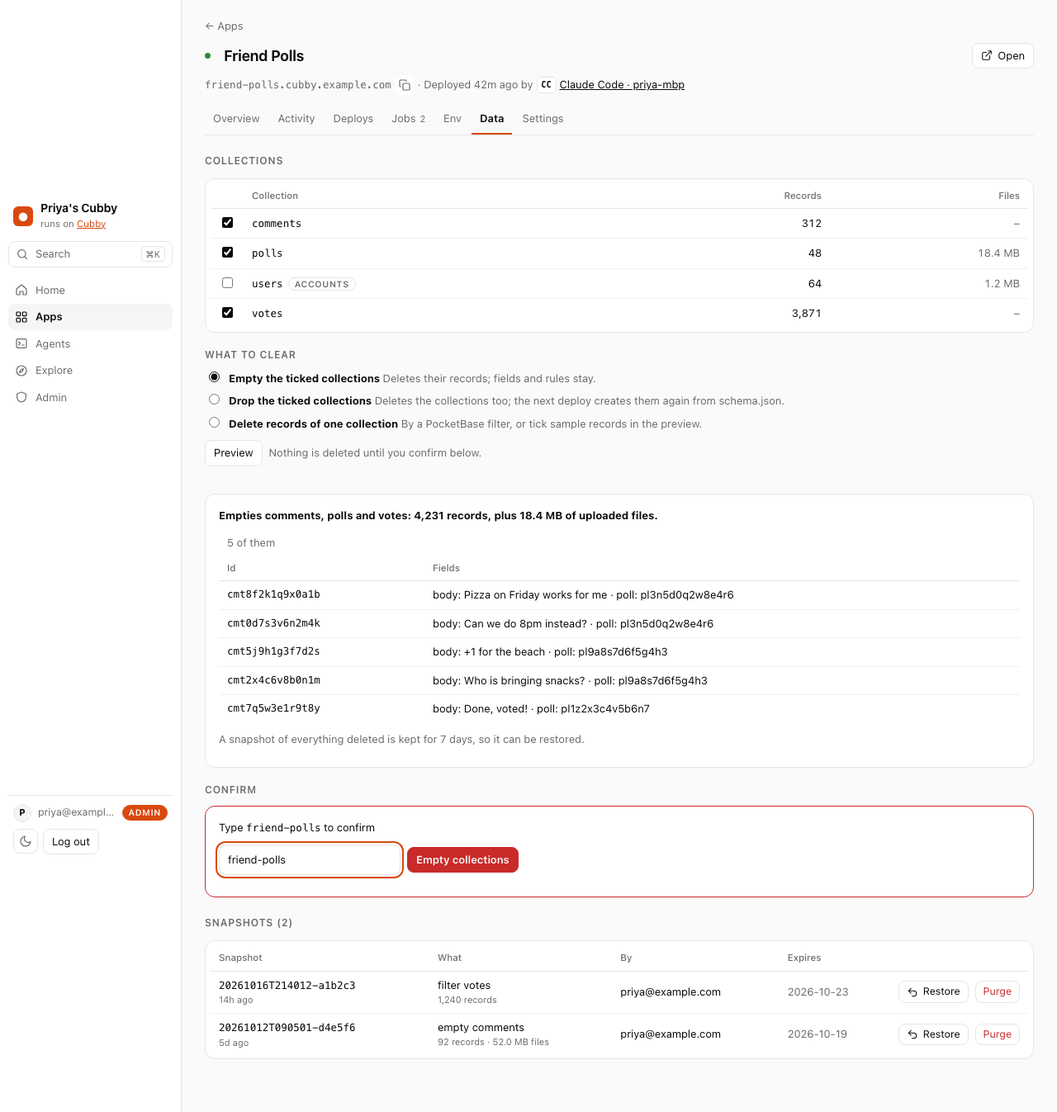
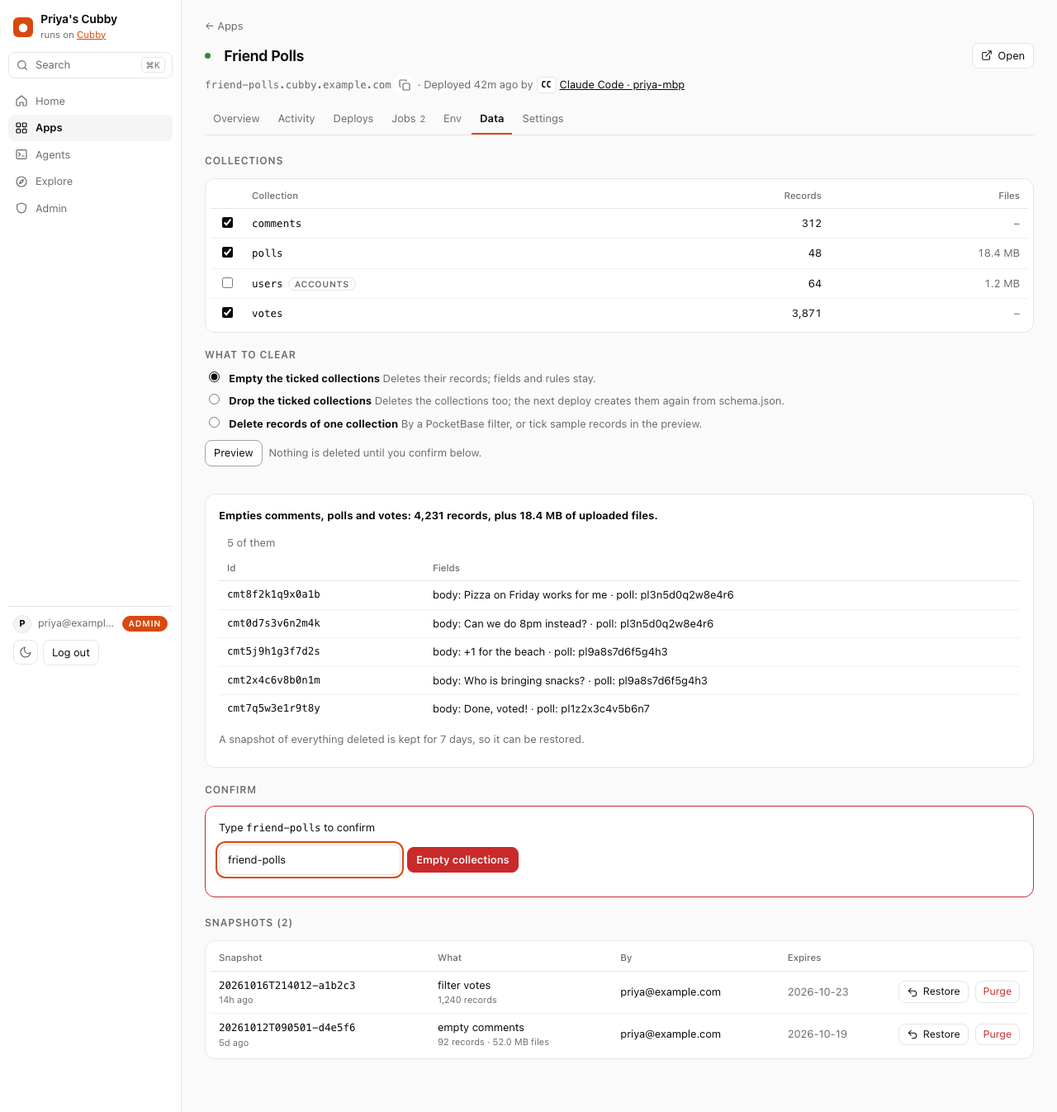
fix(dashboard): structured activity meta, one metrics request, and the Data tab screenshot (#50)
* feat(activity): structured meta on activity entries

cubby_activity gains an optional JSON meta field. Deploys record
{ deploy, files }, rollbacks { deploy }, job runs { job, status } and
job pause/resume { job }; the activity APIs return it. The dashboard
feed reads meta first and falls back to parsing the summary for rows
written before this change.

* feat(metrics): daily series in /api/metrics; dashboard uses one list request

Each GET /api/metrics row now has days: [{ start, views, visitors }]
(appMetricsRow in server/src/metrics.js). Home and the Apps list draw
every app's 7-day views and sparkline from /api/metrics?range=7d instead
of one /api/projects/:slug/metrics request per app. Jobs are still read
per app (only for apps with jobs): they aren't in a list response.

* docs: retake the app Data tab screenshot from the top of the page

Typing the confirmation scrolled the page before the full-page capture,
so the sticky sidebar was drawn at the scroll offset. The sidebar is
positioned correctly at runtime (pinned to the viewport top); the capture
now scrolls back to the top first.

* refactor(metrics): drop an unreachable fallback in appMetricsRow

Reports always have days, so the branch was never taken.

---------

diff --git a/server/src/index.js b/server/src/index.js
@@ -13,7 +13,7 @@ import { scheduleBackups, createBackupRunner, runMaintenance } from './backups.j
 import { scanStorage, createTtlCache, listBackups, checkBackupDelete, planRetention, deleteBackup } from './storage.js';
 import { listJobs, runNow, jobRuns, setPaused, allJobs, scheduleJobs, recoverRuns, deployJobs } from './jobs.js';
 import { listEnv, setEnv, unsetEnv } from './secrets.js';
-import { createMetrics, pocketbaseStore, countsAsView, isPerson, parseRange, metricsClock, appAccounts, summarizeMetrics } from './metrics.js';
+import { createMetrics, pocketbaseStore, countsAsView, isPerson, parseRange, metricsClock, appAccounts, summarizeMetrics, appMetricsRow } from './metrics.js';
 import { buildCliTarball, cliTarball, skillMarkdown } from './cli-dist.js';
 import { startDevice, deviceInfo, approveDevice, pollDevice } from './device.js';
 import * as logic from './logic.js';
@@ -149,21 +149,21 @@ const routes = [
     const deploy = await createDeploy(project, body, url.searchParams.get('message') ?? '', logic.deployClient(req.headers['x-cubby-client']));
     const patch = logic.deployPatch(url.searchParams);
     if (Object.keys(patch).length) await admin.collection('cubby_projects').update(project.id, patch);
-    await recordActivity(user, { action: 'deploy', app: slug, summary: `Deployed ${deploy.id} (${deploy.files} files)` });
+    await recordActivity(user, { action: 'deploy', app: slug, summary: `Deployed ${deploy.id} (${deploy.files} files)`, meta: { deploy: deploy.id, files: deploy.files } });
     return { ...deploy, url: appUrl(slug) };
   }],
   ['POST', '/api/projects/:slug/rollback', 'user', async (req, user, { slug }) => {
     const project = await ownedProject(user, slug);
     const { deploy } = await readJson(req);
     await rollback(project, deploy);
-    await recordActivity(user, { action: 'rollback', app: slug, summary: `Rolled back to ${deploy}` });
+    await recordActivity(user, { action: 'rollback', app: slug, summary: `Rolled back to ${deploy}`, meta: { deploy } });
     return { ok: true, current_deploy: deploy, url: appUrl(slug) };
   }],
 
   ['GET', '/api/projects/:slug/jobs', 'user', async (req, user, { slug }) => listJobs(await ownedProject(user, slug))],
   ['POST', '/api/projects/:slug/jobs/:name/run', 'user', async (req, user, { slug, name }) => {
     const run = await runNow(await ownedProject(user, slug), name);
-    await recordActivity(user, { action: 'job.run', app: slug, summary: `Ran job "${name}" now (${run.status})` });
+    await recordActivity(user, { action: 'job.run', app: slug, summary: `Ran job "${name}" now (${run.status})`, meta: { job: name, status: run.status } });
     return run;
   }],
   ['GET', '/api/projects/:slug/jobs/:name/runs', 'user', async (req, user, { slug, name }, url) => (
@@ -174,7 +174,7 @@ const routes = [
     const { paused } = await readJson(req);
     if (typeof paused !== 'boolean') throw new HttpError(400, 'Body must be { "paused": true | false }');
     const result = await setPaused(project, name, paused);
-    await recordActivity(user, { action: paused ? 'job.pause' : 'job.resume', app: slug, summary: `${paused ? 'Paused' : 'Resumed'} job "${name}"` });
+    await recordActivity(user, { action: paused ? 'job.pause' : 'job.resume', app: slug, summary: `${paused ? 'Paused' : 'Resumed'} job "${name}"`, meta: { job: name } });
     return result;
   }],
 
@@ -208,10 +208,7 @@ const routes = [
     const hours = parseRange(range);
     const list = await admin.collection('cubby_projects').getFullList({ filter: admin.filter('owner = {:u}', { u: user.id }), sort: 'slug' });
     const report = await metrics.report(list.map((p) => p.id), hours);
-    return list.map((p) => {
-      const { from, to, views, visitors, active_now, peak_active, api_requests, api_errors, api_error_rate } = report[p.id];
-      return { app: p.slug, name: p.name, range, from, to, views, visitors, active_now, peak_active, api_requests, api_errors, api_error_rate };
-    });
+    return list.map((p) => appMetricsRow(p, range, report[p.id]));
   }],
 
   // Data: what's in an app's collections, and clearing it (after a snapshot). Owners for their apps; admins any app.

diff --git a/server/public/js/views/home.js b/server/public/js/views/home.js
@@ -3,7 +3,7 @@
 // connect steps instead. Only the signed-in user's own apps are shown here; friends' apps are on Explore.
 import { h, ago, fmtCount, setupPrompt } from '../helpers.js';
 import { monogram, needsAttention, nextPrompts } from '../feed.js';
-import { sumSeries } from '../charts.js';
+import { weekViews } from '../app-view.js';
 import { appPath } from '../routes.js';
 import { state, api, rerender, SERVER } from '../session.js';
 import { agentBadge, copy, copyChip, icon, pageHeader, toast } from '../ui.js';
@@ -38,11 +38,13 @@ function agentsCard(agents) {
     connect);
 }
 
-// Fills the summary cards once the metrics arrive (the feed draws first).
+// Fills the summary cards once the metrics arrive (the feed draws first). Two list requests cover every app: the
+// last 24 hours (active now, and API errors worth a look) and 7 days by day (the views card). Jobs aren't in a list
+// response, so they're asked per app (only apps that have jobs).
 async function loadSummary(apps, activeCard, viewsCard, attention) {
   const [now, weekly, jobs] = await Promise.all([
     api('GET', '/api/metrics?range=24h'),
-    Promise.all(apps.map((a) => api('GET', `/api/projects/${a.slug}/metrics?range=7d`).catch(() => null))),
+    api('GET', '/api/metrics?range=7d'),
     Promise.all(apps.filter((a) => a.jobs).map((a) => api('GET', `/api/projects/${a.slug}/jobs`).then((list) => list.map((j) => ({ ...j, app: a.slug })), () => []))),
   ]);
   const name = (slug) => apps.find((a) => a.slug === slug)?.name ?? slug;
@@ -52,10 +54,9 @@ async function loadSummary(apps, activeCard, viewsCard, attention) {
       h('span', { class: `dot${m.active_now ? ' live' : ''}`, 'aria-hidden': 'true' }), h('a', { href: appPath(m.app), class: 'grow' }, name(m.app)),
       h('span', { class: 'num' }, m.active_now ? fmtCount(m.active_now) : '–')))));
 
-  const days = sumSeries(weekly.filter(Boolean).map((r) => r.days), 'views').slice(-7);
-  const views = days.reduce((n, d) => n + d.value, 0);
-  viewsCard.replaceChildren(h('div', { class: 'side-card-h' }, h('h3', {}, 'Views · 7 days'), h('b', { class: 'big' }, fmtCount(views))),
-    sparkSvg(days.map((d) => d.value), { w: 240, h: 40, label: `Views per day, last 7 days: ${days.map((d) => d.value).join(', ')}` }));
+  const week = weekViews(weekly);
+  viewsCard.replaceChildren(h('div', { class: 'side-card-h' }, h('h3', {}, 'Views · 7 days'), h('b', { class: 'big' }, fmtCount(week.total))),
+    sparkSvg(week.values, { w: 240, h: 40, label: `Views per day, last 7 days: ${week.values.join(', ')}` }));
 
   const items = needsAttention({ apps, jobs: jobs.flat(), metrics: now });
   attention.replaceChildren(...items.map((i) => h('div', { class: 'attention', role: 'group', 'aria-label': `${name(i.app)}: ${i.text}` },

diff --git a/server/public/js/views/apps.js b/server/public/js/views/apps.js
@@ -4,7 +4,7 @@
 import { h, ago, fmtBytes, fmtCount, jobState } from '../helpers.js';
 import { emptyPrompt, lastDeployers, monogram } from '../feed.js';
 import { chartBuckets, deployMarkers, timeTicks } from '../charts.js';
-import { RANGES, chartSummary, kpis, rangeFrom, topPathRows } from '../app-view.js';
+import { RANGES, chartSummary, kpis, rangeFrom, topPathRows, weekViews } from '../app-view.js';
 import { APP_TABS, appPath } from '../routes.js';
 import { api, rerender } from '../session.js';
 import { navigate } from '../router.js';
@@ -41,16 +41,16 @@ export async function renderApps(el) {
         h('td', { class: 'muted hide-sm', 'data-col': 'deploy' }, a.current_deploy ? [`Deployed ${ago(a.last_deployed)}`, ...byLine(deployers[a.slug])] : 'Not deployed yet'),
         h('td', { class: 'r hide-sm' }, a.current_deploy ? h('a', { href: a.url, target: '_blank', rel: 'noopener', 'aria-label': `Open ${a.name}` }, 'Open ↗') : null));
     })))));
-  // Metrics fill in once they arrive.
-  await Promise.all(apps.map(async (a) => {
+  // Metrics fill in once they arrive: one request for every app's numbers and daily views.
+  const metrics = await api('GET', '/api/metrics?range=7d').catch(() => []);
+  for (const a of apps) {
     const c = cells.get(a.slug);
-    try {
-      const m = await api('GET', `/api/projects/${a.slug}/metrics?range=7d`);
-      c.active.replaceChildren(m.active_now ? h('span', { class: 'live-n' }, h('span', { class: 'dot live', 'aria-hidden': 'true' }), fmtCount(m.active_now)) : '–');
-      const days = m.days.slice(-7).map((d) => d.views);
-      c.views.replaceChildren(h('span', { class: 'num' }, fmtCount(m.views)), sparkSvg(days, { w: 96, h: 22, label: `${a.name} views per day: ${days.join(', ')}` }));
-    } catch { c.active.textContent = '–'; c.views.textContent = '–'; }
-  }));
+    const m = metrics.find((r) => r.app === a.slug);
+    if (!m) { c.active.textContent = '–'; c.views.textContent = '–'; continue; }
+    c.active.replaceChildren(m.active_now ? h('span', { class: 'live-n' }, h('span', { class: 'dot live', 'aria-hidden': 'true' }), fmtCount(m.active_now)) : '–');
+    const { values } = weekViews([m]);
+    c.views.replaceChildren(h('span', { class: 'num' }, fmtCount(m.views)), sparkSvg(values, { w: 96, h: 22, label: `${a.name} views per day: ${values.join(', ')}` }));
+  }
 }
 
 // ---------- /apps/:slug ----------

diff --git a/tests/integration/activity.test.js b/tests/integration/activity.test.js
@@ -32,6 +32,7 @@ describe('activity log', () => {
     assert.equal(row.via, 'agent');
     assert.equal(row.agent.name, 'Claude Code · laptop');
     assert.match(row.summary, new RegExp(`${d.data.id}.*2 files`));
+    assert.deepEqual(row.meta, { deploy: d.data.id, files: 2 }, 'structured detail, so the dashboard need not parse the summary');
   });
   test('dashboard actions (the manual token) are attributed to the user via the dashboard; newest first', async () => {
     assert.equal((await alice('POST', '/api/projects', { body: { slug: 'act-dash' } })).status, 200);
@@ -51,6 +52,7 @@ describe('activity log', () => {
     assert.deepEqual(env.map((x) => x.action), ['env.unset', 'env.set']);
     assert.ok(env.every((x) => x.summary.includes('STRIPE_KEY')));
     assert.ok(!r.text.includes(secret), 'the value never reaches the log');
+    assert.ok(env.every((x) => x.meta === null), 'nor any structured detail');
     assert.ok(!r.text.includes('sk-live'));
   });
   test('rollback, schema push (added/kept) and schema drop are recorded', async () => {
@@ -63,6 +65,8 @@ describe('activity log', () => {
     assert.equal((await alice('DELETE', '/api/projects/act-one/schema/notes.body')).status, 200);
     const rows = (await alice('GET', '/api/activity?app=act-one')).data;
     assert.match(rows.find((r) => r.action === 'rollback').summary, new RegExp(first));
+    assert.deepEqual(rows.find((r) => r.action === 'rollback').meta, { deploy: first });
+    assert.equal(rows.find((r) => r.action === 'schema.drop').meta, null, 'actions without structured detail have none');
     const pushes = rows.filter((r) => r.action === 'schema.push');
     assert.match(pushes[1].summary, /created notes/);
     assert.match(pushes[0].summary, /kept notes\.body/);
@@ -81,6 +85,7 @@ describe('activity log', () => {
     const rows = (await alice('GET', '/api/activity?app=act-one')).data.filter((r) => r.action.startsWith('job.'));
     assert.deepEqual(rows.map((r) => r.action), ['job.resume', 'job.pause', 'job.run']);
     assert.match(rows[2].summary, /tick.*ok/);
+    assert.deepEqual(rows.map((r) => r.meta), [{ job: 'tick' }, { job: 'tick' }, { job: 'tick', status: 'ok' }]);
   });
   test('approving an agent login is recorded under that agent, without an app', async () => {
     await deviceLogin(alice, { tool: 'Codex', machine: 'desk' });

diff --git a/tests/unit/activity.test.js b/tests/unit/activity.test.js
@@ -15,12 +15,16 @@ describe('activity rows', () => {
   test('a dashboard action has no agent; an agent action carries its key id and name', () => {
     const now = new Date('2026-10-17T09:30:00Z');
     assert.deepEqual(logic.activityRow(alice, { action: 'app.create', app: 'todo', summary: 'Created app "todo"' }, now), {
-      user: 'u1', agent: '', agent_name: '', app: 'todo', action: 'app.create', summary: 'Created app "todo"', at: '2026-10-17T09:30:00.000Z',
+      user: 'u1', agent: '', agent_name: '', app: 'todo', action: 'app.create', summary: 'Created app "todo"', meta: null, at: '2026-10-17T09:30:00.000Z',
     });
     const row = logic.activityRow(agent, { action: 'agent.login' }, now);
     assert.equal(row.agent, 'k9');
     assert.equal(row.agent_name, 'Claude Code · laptop');
     assert.equal(row.app, '', 'actions without an app');
+  });
+  test('structured meta is stored as given; rows without it store null', () => {
+    assert.deepEqual(logic.activityRow(alice, { action: 'deploy', meta: { deploy: 'd1', files: 3 } }).meta, { deploy: 'd1', files: 3 });
+    assert.equal(logic.activityRow(alice, { action: 'deploy', meta: {} }).meta, null, 'empty meta is not stored');
   });
   test('summaries are capped so a row stays small', () => {
     assert.equal(logic.activityRow(alice, { action: 'deploy', summary: 'x'.repeat(1000) }).summary.length, 300);
@@ -28,8 +32,9 @@ describe('activity rows', () => {
   test('the view says how the action was made and who made it', () => {
     const base = { id: 'r1', at: 't', app: 'todo', action: 'deploy', summary: 's', expand: { user: { email: 'a@x.dev' } } };
     assert.deepEqual(logic.activityView({ ...base, agent: 'k9', agent_name: 'Codex · box' }), {
-      id: 'r1', at: 't', user: 'a@x.dev', via: 'agent', agent: { id: 'k9', name: 'Codex · box' }, app: 'todo', action: 'deploy', summary: 's',
+      id: 'r1', at: 't', user: 'a@x.dev', via: 'agent', agent: { id: 'k9', name: 'Codex · box' }, app: 'todo', action: 'deploy', summary: 's', meta: null,
     });
+    assert.deepEqual(logic.activityView({ ...base, meta: { deploy: 'd1', files: 2 } }).meta, { deploy: 'd1', files: 2 });
     const dash = logic.activityView({ ...base, agent: '', agent_name: '', app: '', expand: undefined });
     assert.equal(dash.via, 'dashboard');
     assert.equal(dash.agent, null);

diff --git a/server/public/js/feed.js b/server/public/js/feed.js
@@ -64,19 +64,33 @@ export function feedEntry(row, { apps = [], agents = [] } = {}) {
   const entry = { id: row.id, at: row.at, actor: actorOf(row, agents), app: appOf(row.app, apps), text: row.summary, kind: 'other', rollback: false };
   if (row.action === 'deploy') {
     entry.kind = 'deploy';
-    const m = row.summary.match(/^Deployed (\S+)(?: \((\d+) files?\))?/);
-    entry.deployId = m?.[1] ?? null;
+    const { deploy, files } = deployDetails(row);
+    entry.deployId = deploy;
     entry.verb = 'deployed';
-    entry.detail = m?.[2] ? `${m[2]} file${m[2] === '1' ? '' : 's'}` : '';
+    entry.detail = files != null ? `${files} file${files === 1 ? '' : 's'}` : '';
     const app = apps.find((a) => a.slug === row.app);
     entry.rollback = Boolean(app && entry.deployId && app.current_deploy === entry.deployId);
   } else if (row.action === 'rollback') {
     Object.assign(entry, { kind: 'rollback', verb: 'rolled back', detail: 'to an earlier deploy' });
   } else if (row.action === 'job.run') {
-    const m = row.summary.match(/^Ran job "([^"]+)" now \((\w+)\)$/);
-    if (m && (m[2] === 'error' || m[2] === 'timeout')) Object.assign(entry, { kind: 'failed', job: m[1], status: m[2] });
+    const { job, status } = jobRunDetails(row);
+    if (job && (status === 'error' || status === 'timeout')) Object.assign(entry, { kind: 'failed', job, status });
   }
   return entry;
+}
+
+// Rows carry structured `meta` since the activity log gained it; older rows only have the summary text
+// ("Deployed <id> (N files)", `Ran job "x" now (status)`), which is parsed as a fallback.
+function deployDetails({ meta, summary }) {
+  if (meta?.deploy) return { deploy: meta.deploy, files: Number.isInteger(meta.files) ? meta.files : null };
+  const m = String(summary ?? '').match(/^Deployed (\S+)(?: \((\d+) files?\))?/);
+  return { deploy: m?.[1] ?? null, files: m?.[2] ? Number(m[2]) : null };
+}
+
+function jobRunDetails({ meta, summary }) {
+  if (meta?.job) return { job: meta.job, status: meta.status ?? null };
+  const m = String(summary ?? '').match(/^Ran job "([^"]+)" now \((\w+)\)$/);
+  return { job: m?.[1] ?? null, status: m?.[2] ?? null };
 }
 
 /** Feed entries for rows (newest first). Only an app's newest deploy in the feed can offer Roll back. */

diff --git a/tests/unit/metrics.test.js b/tests/unit/metrics.test.js
@@ -4,7 +4,7 @@ import { createHash } from 'node:crypto';
 import { mkdtempSync, writeFileSync, rmSync } from 'node:fs';
 import { tmpdir } from 'node:os';
 import { join } from 'node:path';
-import { createMetrics, countsAsView, parseRange, pocketbaseStore, visitorId, metricsClock, appAccounts, isPerson, rollupMetrics, summarizeMetrics } from '../../server/src/metrics.js';
+import { createMetrics, countsAsView, parseRange, pocketbaseStore, visitorId, metricsClock, appAccounts, isPerson, rollupMetrics, summarizeMetrics, appMetricsRow } from '../../server/src/metrics.js';
 
 // In-memory stand-in for the cubby_metrics collection.
 function memoryStore() {
@@ -623,5 +623,25 @@ describe('admin totals', () => {
       { start: 'D2', views: 3, visitors: 1, api_requests: 2, api_errors: 0, peak_active: 4 },
     ]);
     assert.deepEqual(s.hours, [{ start: 'H1', views: 8, peak_active: 2, api_requests: 4, api_errors: 2 }]);
+  });
+});
+
+// GET /api/metrics: one row per app, with a compact daily series so the dashboard needs no per-app request.
+describe('the per-app list row', () => {
+  test('has the totals and each day as { start, views, visitors } only, without hours, paths or API counts', () => {
+    const report = {
+      from: 'F', to: 'T', views: 7, visitors: 3, active_now: 1, peak_active: 2, api_requests: 10, api_errors: 1, api_error_rate: 0.1,
+      top_paths: [{ path: '/', views: 7 }], hours: [{ start: 'H1', views: 7 }],
+      days: [{ start: 'D1', views: 3, visitors: 1, api_requests: 4, api_errors: 0, peak_active: 1 }, { start: 'D2', views: 4, visitors: 2, api_requests: 6, api_errors: 1, peak_active: 2 }],
+    };
+    assert.deepEqual(appMetricsRow({ slug: 'polls', name: 'Polls' }, '7d', report), {
+      app: 'polls', name: 'Polls', range: '7d', from: 'F', to: 'T', views: 7, visitors: 3, active_now: 1, peak_active: 2,
+      api_requests: 10, api_errors: 1, api_error_rate: 0.1,
+      days: [{ start: 'D1', views: 3, visitors: 1 }, { start: 'D2', views: 4, visitors: 2 }],
+    });
+  });
+  test('days without traffic count zero', () => {
+    const row = appMetricsRow({ slug: 'a', name: 'A' }, '24h', { views: 0, visitors: 0, days: [{ start: 'D1' }] });
+    assert.deepEqual(row.days, [{ start: 'D1', views: 0, visitors: 0 }]);
   });
 });

diff --git a/tests/unit/frontend-feed.test.js b/tests/unit/frontend-feed.test.js
@@ -205,5 +205,23 @@ describe('feedEntry()', () => {
       assert.equal(e.job, 'weekly-digest');
     }
     assert.equal(feed.feedEntry(row({ action: 'job.run', summary: 'Ran job "weekly-digest" now (ok)' }), { apps, agents }).kind, 'other');
+  });  // Rows written since activity gained `meta` carry the details; the summary is then only display text.
+  test('a deploy reads its id and file count from meta when it has one', () => {
+    const e = feed.feedEntry(row({ action: 'deploy', summary: 'Shipped something', meta: { deploy: 'd12', files: 1 } }), { apps, agents });
+    assert.deepEqual([e.kind, e.deployId, e.detail, e.rollback], ['deploy', 'd12', '1 file', true]);
+    const noCount = feed.feedEntry(row({ action: 'deploy', summary: 'Deployed d12 (4 files)', meta: { deploy: 'd12' } }), { apps, agents });
+    assert.deepEqual([noCount.deployId, noCount.detail], ['d12', '']);
+  });
+  test('a job run reads its job and status from meta when it has one', () => {
+    const e = feed.feedEntry(row({ action: 'job.run', summary: 'Ran it', meta: { job: 'weekly-digest', status: 'timeout' } }), { apps, agents });
+    assert.deepEqual([e.kind, e.job, e.status], ['failed', 'weekly-digest', 'timeout']);
+    const ok = feed.feedEntry(row({ action: 'job.run', summary: 'Ran job "x" now (error)', meta: { job: 'x', status: 'ok' } }), { apps, agents });
+    assert.equal(ok.kind, 'other', 'meta wins over the summary');
+  });
+  test('older rows (meta null) still fall back to parsing the summary', () => {
+    const d = feed.feedEntry(row({ action: 'deploy', summary: 'Deployed d12 (4 files)', meta: null }), { apps, agents });
+    assert.deepEqual([d.deployId, d.detail], ['d12', '4 files']);
+    const j = feed.feedEntry(row({ action: 'job.run', summary: 'Ran job "weekly-digest" now (error)', meta: null }), { apps, agents });
+    assert.deepEqual([j.kind, j.job], ['failed', 'weekly-digest']);
   });
 });

diff --git a/docs/index.html b/docs/index.html
@@ -468,7 +468,7 @@ Snapshot 20261017T101500-a1b2c3 keeps them until 2026-10-24.</span></pre></div>
             <li>Type the app's name to unlock the button. The result names the snapshot, which is listed below with <b>Restore</b> (dry run first, with any schema drift and an <b>Overwrite</b> option) and <b>Purge</b>.</li>
           </ul>
         </div>
-        <figure class="shot"><img src="assets/dashboard-app-data.png?v=6d4bd325" alt="Friend Polls' Data tab: collections with record counts and file sizes (users unticked), Empty, Drop or delete by filter, a preview that says Empties comments, polls and votes: 4,231 records with five sample records, the app name typed to confirm, and two snapshots with Restore and Purge" loading="lazy" width="1280" height="1347"><figcaption>An app's Data tab, after Preview.</figcaption></figure>
+        <figure class="shot"><img src="assets/dashboard-app-data.png?v=0997ebdc" alt="Friend Polls' Data tab: collections with record counts and file sizes (users unticked), Empty, Drop or delete by filter, a preview that says Empties comments, polls and votes: 4,231 records with five sample records, the app name typed to confirm, and two snapshots with Restore and Purge" loading="lazy" width="1280" height="1347"><figcaption>An app's Data tab, after Preview.</figcaption></figure>
       </div>
       <h3 id="restore">Undo a clear</h3>
       <p>Cleared the wrong thing? Within 7 days, ask your agent to bring it back:</p>

diff --git a/server/public/js/app-view.js b/server/public/js/app-view.js
@@ -1,7 +1,7 @@
 // The app page's view model: the range in the URL, the KPI strip, top paths and chart descriptions. Pure (no DOM,
 // no network), so tests/unit/frontend-app-view.test.js imports it directly; views/app.js draws the page.
 import { fmtCount, fmtPct } from './helpers.js';
-import { bucketLabel } from './charts.js';
+import { bucketLabel, sumSeries } from './charts.js';
 
 export const RANGES = ['24h', '7d', '30d'];
 
@@ -9,6 +9,15 @@ export const RANGES = ['24h', '7d', '30d'];
 export function rangeFrom(search) {
   const range = new URLSearchParams(search).get('range');
   return RANGES.includes(range) ? range : '7d';
+}
+
+/**
+ * Views per UTC day over the last 7 days, added up across GET /api/metrics?range=7d rows (each with `days`), and their
+ * total: Home's "Views · 7 days" card, and with one row an app's sparkline on /apps. One request for every app.
+ */
+export function weekViews(rows) {
+  const values = sumSeries(rows.map((r) => r.days ?? []), 'views').slice(-7).map((d) => d.value);
+  return { total: values.reduce((n, x) => n + x, 0), values };
 }
 
 const RANGE_TEXT = { '24h': 'last 24 hours', '7d': 'last 7 days', '30d': 'last 30 days' };

diff --git a/server/src/logic.js b/server/src/logic.js
@@ -102,13 +102,16 @@ export const agentView = (k, currentKeyId) => ({
 
 // --- Activity log: one row per mutation, attributed to the agent key that made it ---
 // `actor.agent` is { id, name } for an agent's key, null for the manual token (the dashboard).
-export const activityRow = (actor, { action, app = '', summary = '' }, now = new Date()) => ({
+// `meta` is optional structured detail the dashboard reads instead of parsing `summary` (e.g. { deploy, files }).
+// Keep it small and never put secret values in it: it is returned by the activity APIs as is.
+export const activityRow = (actor, { action, app = '', summary = '', meta = null }, now = new Date()) => ({
   user: actor.id,
   agent: actor.agent?.id ?? '',
   agent_name: actor.agent?.name ?? '',
   app,
   action,
   summary: String(summary).slice(0, 300),
+  meta: meta && Object.keys(meta).length ? meta : null,
   at: now.toISOString(),
 });
 
@@ -215,6 +218,7 @@ export const activityView = (r) => ({
   app: r.app || null,
   action: r.action,
   summary: r.summary,
+  meta: r.meta ?? null,
 });
 
 // Each server has a display name ("Priya's Cubby"), shown to friends and agents.

diff --git a/tests/e2e/home-agents.spec.js b/tests/e2e/home-agents.spec.js
@@ -15,6 +15,9 @@ test('Home: first run shows the connect steps; once an agent deploys, the timeli
   const slug = uid('feed');
   await api.createApp(agent, slug);
   await api.deploy(agent, slug);
+  const perApp = [];
+  const onRequest = (r) => { if (/\/api\/projects\/[^/]+\/metrics/.test(r.url())) perApp.push(r.url()); };
+  page.on('request', onRequest);
   await page.reload();
 
   await expect(home.steps).toHaveCount(0);
@@ -24,6 +27,8 @@ test('Home: first run shows the connect steps; once an agent deploys, the timeli
   await expect(home.agentsCard.getByRole('link', { name: 'Claude Code · e2e-mbp' })).toBeVisible();
   await expect(home.activeNow.getByRole('link', { name: slug })).toBeVisible();
   await expect(home.views.getByRole('img', { name: /^Views per day, last 7 days/ })).toBeVisible();
+  page.off('request', onRequest);
+  expect(perApp, 'the summary draws from GET /api/metrics alone').toEqual([]);
 
   // Prompt chips copy fixed templates naming the app and the server.
   await home.nextPrompts.getByRole('button', { name: /^Copy prompt: Add a dark mode toggle/ }).click();
